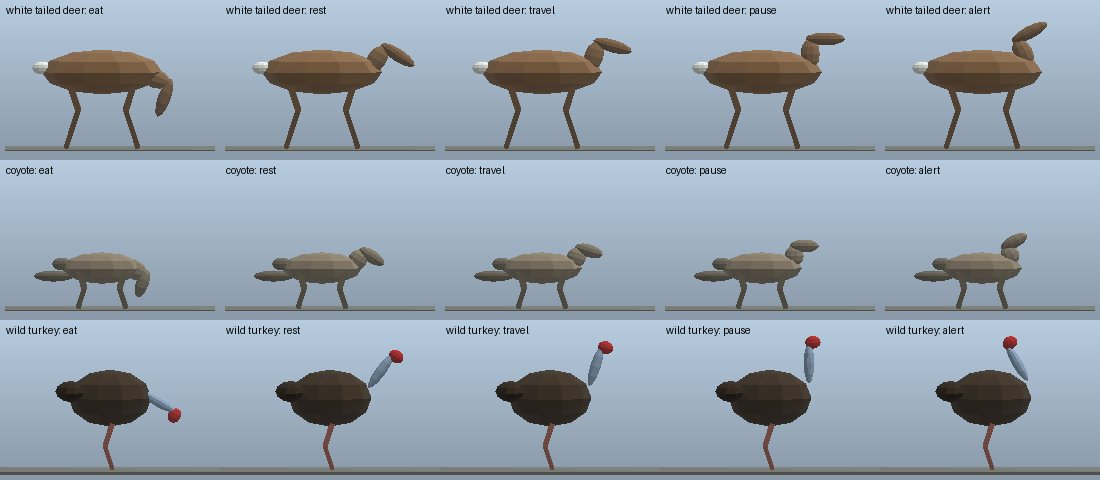
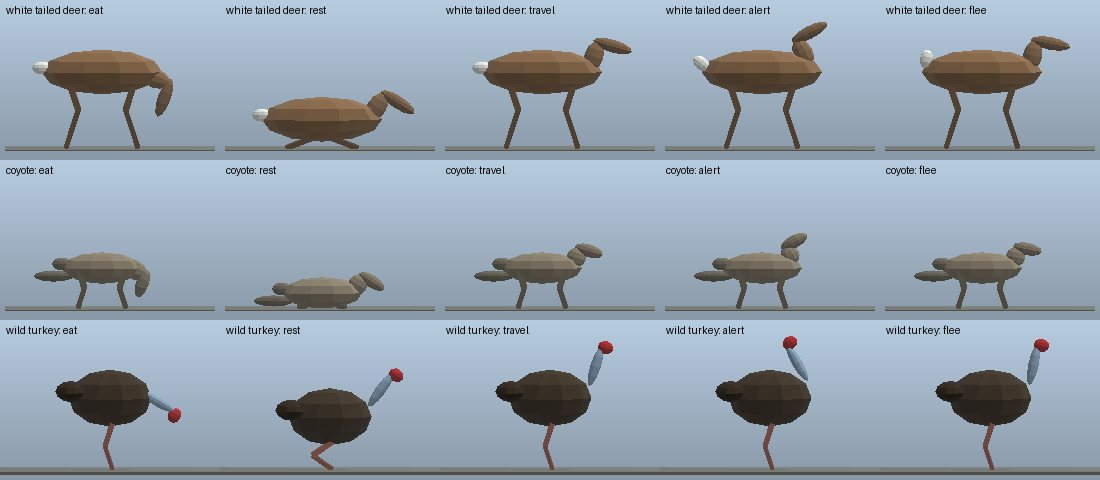
Lying down to rest, and the deer's white flag
TECHNIQUES §29.

Lying: "rest" lowers the trunk by d = 0.62 h (quadrupeds) or 0.4 h
(turkey), eased over 1 s. Its keys join the leg timeline, and resting
feet aim at z = −(h − d), so the two-bone IK folds the legs (knee > 90°)
and the feet stay on the ground. The trunk carries b = −d (+ gait bob).

Flag: the deer's tail is its own node at the rump; it lifts by a
fraction of a 100° flag angle: 1.0 flee, 0.4 alert, eased over 0.3 s.

Head (§28), flag and drop share pose_track(times, states, full, table,
ease).

Viewer check: 55 animated nodes, unique names, no errors. poses.jpg
adds rest and flee. Scenes 10.73 / 9.04 / 9.8 MB. 50 tests pass.

Claude-Session: https://claude.ai/code/session_01W8T2zvuXVw2eBrrYHA5yqx

diff --git a/plandscape/fauna/bodies.py b/plandscape/fauna/bodies.py
@@ -28,7 +28,8 @@ def ellipsoid(c, r, rgb, nu=10, nv=6):
 
 def rig(key, rgb, scale=1.0):
     """Body split for gait animation: dict(torso=Mesh, legs=[dict(thigh, shank, hip, knee, l1, l2)],
-    neck=dict(mesh, pivot, graze) or None, hip=hip height h (m), kind='quad'|'biped'|'hop'|'none'). Legs are ordered LF, RF, LH, RH (bipeds L, R).
+    neck=dict(mesh, pivot, graze) or None, tail=dict(mesh, pivot, flag) or None, hip=hip height h (m),
+    kind='quad'|'biped'|'hop'|'none', lie=trunk drop when lying, as a fraction of h). Legs are ordered LF, RF, LH, RH (bipeds L, R).
     Thigh and shank hang straight down from their own origins (hip, knee); together they are h / 0.95 long, so
     the rest pose (gait.rest_pose) is slightly flexed. knee = +1 bends forward (stifle, human knee), −1 backward
     (a deer's carpus, a bird's intertarsal joint)."""
@@ -36,6 +37,7 @@ def rig(key, rgb, scale=1.0):
     rgb = np.asarray(rgb)
     parts, legs, hip, kind = [], [], 0.0, "none"
     neck = None  # dict(mesh relative to the pivot, pivot xyz, graze=head-down pitch in radians)
+    tail = None  # dict(mesh relative to the pivot, pivot xyz, flag=raise angle in radians)
 
     def leg(x, y, h, w, col, knee):
         L = h * REACH
@@ -55,8 +57,12 @@ def rig(key, rgb, scale=1.0):
         for x, knee in ((L * 0.6, -1.0), (-L * 0.6, 1.0)):  # fore (carpus bends back), then hind (stifle forward)
             for y in (0.1, -0.1):                            # left (+y), then right
                 leg(x, y, h, 0.06, rgb * 0.8, knee)
-        tail = (0.95, 0.95, 0.92) if key == "white_tailed_deer" else rgb * 0.8
-        parts.append(ellipsoid((-L * 1.0, 0, h + 0.05), (0.12, 0.05, 0.08), tail))
+        if key == "white_tailed_deer":  # the white flag: raised when fleeing (§29)
+            tp = np.array([-L * 0.9, 0, h + 0.08])
+            tail = dict(mesh=ellipsoid(np.array([-L * 1.0, 0, h + 0.05]) - tp, (0.12, 0.05, 0.08), (0.95, 0.95, 0.92)),
+                        pivot=tuple(tp), flag=np.radians(100))
+        else:
+            parts.append(ellipsoid((-L * 1.0, 0, h + 0.05), (0.12, 0.05, 0.08), rgb * 0.8))
         if key == "coyote":
             parts.append(ellipsoid((-L * 1.2, 0, h - 0.1), (0.25, 0.06, 0.07), rgb * 0.75))
         hip, kind = h, "quad"
@@ -91,16 +97,18 @@ def rig(key, rgb, scale=1.0):
         hip, kind = 0.9, "biped"
     torso = Mesh.merge(parts)
     torso.positions *= scale
-    if neck is not None:
-        neck["mesh"].positions *= scale
-        neck["pivot"] = tuple(c * scale for c in neck["pivot"])
+    for part in (neck, tail):
+        if part is not None:
+            part["mesh"].positions *= scale
+            part["pivot"] = tuple(c * scale for c in part["pivot"])
     for lg in legs:
         lg["thigh"].positions *= scale
         lg["shank"].positions *= scale
         lg["hip"] = tuple(c * scale for c in lg["hip"])
         lg["l1"] *= scale
         lg["l2"] *= scale
-    return dict(torso=torso, legs=legs, neck=neck, hip=hip * scale, kind=kind)
+    drop = {"quad": 0.62, "biped": 0.4}.get(kind, 0.0) if key != "human" else 0.0
+    return dict(torso=torso, legs=legs, neck=neck, tail=tail, hip=hip * scale, kind=kind, lie=drop)
 
 
 def _pitch(P, th):
@@ -126,7 +134,8 @@ def body(key, rgb, scale=1.0):
     """The rig merged into one static mesh in its rest pose (previews, the asset library)."""
     r = rig(key, rgb, scale)
     parts = [r["torso"]] + posed_legs(r)
-    if r["neck"] is not None:
-        n = r["neck"]
-        parts.append(Mesh(n["mesh"].positions + np.asarray(n["pivot"], np.float32), n["mesh"].colors, n["mesh"].indices))
+    for n in (r["neck"], r["tail"]):
+        if n is not None:
+            parts.append(Mesh(n["mesh"].positions + np.asarray(n["pivot"], np.float32), n["mesh"].colors,
+                              n["mesh"].indices))
     return Mesh.merge(parts)

diff --git a/plandscape/fauna/gait.py b/plandscape/fauna/gait.py
@@ -88,6 +88,10 @@ BOB = {"walk": 0.015, "trot": 0.03, "gallop": 0.05}  # trunk bob amplitude, frac
 HEAD = {"eat": 1.0, "drink": 1.0, "dig": 0.9, "scratch": 0.8, "groom": 0.4, "rest": 0.3, "idle": 0.1,
         "pause": 0.0, "travel": 0.15, "flee": 0.1, "alert": -0.25, "freeze": -0.2}
 HEAD_EASE = 0.4  # s to move the head to a new pose
+TAIL = {"flee": 1.0, "alert": 0.4}  # deer tail raise, fraction of the flag angle (§29)
+TAIL_EASE = 0.3
+LIE = {"rest": 1.0}  # trunk drop, fraction of the species' lying drop (§29)
+LIE_EASE = 1.0
 REACH = 1 / 0.95  # leg length / hip height
 
 
@@ -115,29 +119,33 @@ def rest_pose(h, l1, l2, knee):
     return two_bone(0.0, -h, l1, l2, knee)
 
 
-def leg_ik(times, xy, h, knees, legs="quad", seg=None, bob=None):
+def leg_ik(times, xy, h, knees, legs="quad", seg=None, bob=None, drop=None):
     """(key times (K,), angles (K, n_legs, 2) hip/knee radians, gait names) with feet planted in stance.
     With `bob` a list, it is filled with the trunk lift b(t) = A cos 2φ at each key; feet aim at z = −(h + b)
-    so they stay on the ground while the body rises and falls."""
+    so they stay on the ground while the body rises and falls. `drop` = (key times, metres) lowers the trunk
+    (lying down, §29): its keys join the timeline, and resting feet aim at z = −(h − drop), folding the legs."""
     v, phi = phase_track(times, xy, h)
     tk = key_times(times, v, phi)
+    if drop is not None:
+        tk = np.unique(np.r_[tk, np.clip(drop[0], times[0], times[-1])])
     vk = _interval_speed(times, v, tk)
     pk = np.interp(tk, times, phi)
+    dk = np.interp(tk, drop[0], drop[1]) if drop is not None else np.zeros(len(tk))
     table = QUAD if legs == "quad" else BIPED
     L = h * REACH
     l1, l2 = seg if seg is not None else (L / 2, L / 2)
     names = [gait_name(x) for x in froude(vk, h)]
     n = len(table["walk"][0])
     out = np.zeros((len(tk), n, 2))
+    b = -dk.copy()
     for j in range(n):
-        out[:, j] = rest_pose(h, l1, l2, knees[j])
-    b = np.zeros(len(tk))
+        out[:, j] = np.stack(two_bone(np.zeros(len(tk)), -(h - dk), l1, l2, knees[j]), -1)
     for i, (nm, p, vv) in enumerate(zip(names, pk, vk)):
         if vv <= 0:
             continue
         offs, beta = table[nm]
         S = float(stride(vv, h)) * beta
-        b[i] = BOB[nm] * h * np.cos(2 * p)
+        b[i] = BOB[nm] * h * np.cos(2 * p) - dk[i]
         for j, o in enumerate(offs):
             x, z = foot_path(p / (2 * np.pi) - o, beta, S, h, LIFT[nm])
             out[i, j] = two_bone(x, z - b[i], l1, l2, knees[j])
@@ -147,17 +155,22 @@ def leg_ik(times, xy, h, knees, legs="quad", seg=None, bob=None):
 
 
 def head_track(times, states, graze):
-    """Head pitch keys from behaviour states: each change eases over HEAD_EASE seconds.
-    Returns (times, pitch radians, + = head down)."""
+    """Head pitch keys (+ = down) from behaviour states, as fractions of the grazing angle."""
+    return pose_track(times, states, graze, HEAD, HEAD_EASE)
+
+
+def pose_track(times, states, full, table, ease):
+    """Pose keys from behaviour states: `table` maps state → fraction of `full` (an angle or a distance);
+    each change eases over `ease` seconds. Returns (times, values)."""
     t = np.asarray(times, float)
-    target = np.array([HEAD.get(s, 0.0) * graze for s in states])
+    target = np.array([table.get(s, 0.0) * full for s in states])
     tk, val = [t[0]], [target[0]]
     for i in range(1, len(t)):
         if target[i] != target[i - 1]:
             if t[i] > tk[-1] + 1e-6:
                 tk.append(t[i])
                 val.append(target[i - 1])
-            tk.append(t[i] + HEAD_EASE)
+            tk.append(t[i] + ease)
             val.append(target[i])
     if t[-1] > tk[-1]:
         tk.append(t[-1])

diff --git a/plandscape/scene/compose.py b/plandscape/scene/compose.py
@@ -411,11 +411,13 @@ def compose(plan: ScenePlan, out_dir: str, sim_seconds=180.0, log=print, store: 
             nm = f"{a.spec.key}_{len(rigs)}"
             rigs[look] = (rg, g.mesh(rg["torso"], nm + "_torso", m_fauna),
                           g.mesh(rg["neck"]["mesh"], nm + "_head", m_fauna) if rg["neck"] else None,
+                          g.mesh(rg["tail"]["mesh"], nm + "_tail", m_fauna) if rg["tail"] else None,
                           [(g.mesh(lg["thigh"], f"{nm}_thigh{i}", m_fauna), g.mesh(lg["shank"], f"{nm}_shank{i}", m_fauna))
                            for i, lg in enumerate(rg["legs"])])
-        rg, torso_mesh, head_mesh, leg_meshes = rigs[look]
+        rg, torso_mesh, head_mesh, tail_mesh, leg_meshes = rigs[look]
         torso = g.node("torso", torso_mesh)
         neck = g.node("neck", head_mesh, translation=rg["neck"]["pivot"]) if head_mesh is not None else None
+        tail = g.node("tail", tail_mesh, translation=rg["tail"]["pivot"]) if tail_mesh is not None else None
         legs, shanks = [], []
         for i, ((tm_, sm_), lg) in enumerate(zip(leg_meshes, rg["legs"])):
             r1, r2 = gait.rest_pose(rg["hip"], lg["l1"], lg["l2"], lg["knee"])
@@ -425,7 +427,7 @@ def compose(plan: ScenePlan, out_dir: str, sim_seconds=180.0, log=print, store: 
             g.nodes[th]["rotation"] = pitch_quat(r1).tolist()
             legs.append(th)
             shanks.append(sh)
-        trunk = g.node("body", children=[torso] + ([neck] if neck is not None else []) + legs)
+        trunk = g.node("body", children=[torso] + [n_ for n_ in (neck, tail) if n_ is not None] + legs)
         node = g.node(f"{a.spec.key}_{a.id}", children=[trunk])
         akids.append(node)
         L = a.log[::4]
@@ -437,8 +439,11 @@ def compose(plan: ScenePlan, out_dir: str, sim_seconds=180.0, log=print, store: 
             if legs:  # hip and knee by two-bone IK on planted-foot paths (§26), trunk bob (§28)
                 lg0 = rg["legs"][0]
                 bob = []
+                states = [l[5] for l in a.log]
+                drop = gait.pose_track(t_, states, rg["lie"] * rg["hip"], gait.LIE, gait.LIE_EASE) if rg["lie"] else None
                 tk, ang, _ = gait.leg_ik(t_, xy, rg["hip"], [lg["knee"] for lg in rg["legs"]],
-                                         "quad" if rg["kind"] == "quad" else "biped", seg=(lg0["l1"], lg0["l2"]), bob=bob)
+                                         "quad" if rg["kind"] == "quad" else "biped", seg=(lg0["l1"], lg0["l2"]), bob=bob,
+                                         drop=drop)
                 for i, (ln, sn) in enumerate(zip(legs, shanks)):
                     extra.append((ln, "rotation", tk, pitch_quat(ang[:, i, 0])))
                     extra.append((sn, "rotation", tk, pitch_quat(ang[:, i, 1])))
@@ -447,6 +452,9 @@ def compose(plan: ScenePlan, out_dir: str, sim_seconds=180.0, log=print, store: 
             if neck is not None:  # head down to graze, up when alert (§28)
                 hk, hv = gait.head_track(t_, [l[5] for l in a.log], rg["neck"]["graze"])
                 extra.append((neck, "rotation", hk, pitch_quat(-hv)))
+            if tail is not None:  # the white flag goes up when a deer flees (§29)
+                fk, fv = gait.pose_track(t_, [l[5] for l in a.log], rg["tail"]["flag"], gait.TAIL, gait.TAIL_EASE)
+                extra.append((tail, "rotation", fk, pitch_quat(-fv)))
             elif rg["kind"] == "hop":
                 tk, zz = gait.hop_heights(t_, xy, rg["hip"], 0.6 * rg["hip"])
                 extra.append((torso, "translation", tk, _to_gltf(np.c_[0 * zz, 0 * zz, zz])))

diff --git a/tests/test_core.py b/tests/test_core.py
@@ -63,7 +63,7 @@ class Gaits(unittest.TestCase):
         for k in ("white_tailed_deer", "wild_turkey", "human", "gray_squirrel"):
             r = rig(k, (0.5, 0.4, 0.3))
             b = body(k, (0.5, 0.4, 0.3))
-            neck = r["neck"]["mesh"].n_tris if r["neck"] else 0
+            neck = sum(r[k]["mesh"].n_tris for k in ("neck", "tail") if r[k])
             self.assertEqual(b.n_tris, r["torso"].n_tris + neck + sum(lg["thigh"].n_tris + lg["shank"].n_tris
                                                                       for lg in r["legs"]))
             for lg in r["legs"]:  # rest pose puts the foot on the ground, slightly flexed
@@ -110,6 +110,33 @@ class Behaviour(unittest.TestCase):
         fz = -0.5 * np.cos(th1) - 0.5 * np.cos(th1 + th2) + bob  # foot height above the ground (hip at h + b)
         self.assertGreater(np.isclose(fz, -0.95, atol=1e-4).mean(), 0.4)  # in stance about half the time
         self.assertTrue(np.all(fz >= -0.95 - 1e-4))  # never below the ground
+
+
+class LyingAndFlag(unittest.TestCase):
+    def test_rest_folds_legs_and_flee_raises_the_flag(self):
+        from plandscape.fauna import gait
+        from plandscape.fauna.bodies import rig
+        r = rig("white_tailed_deer", (0.5, 0.4, 0.3))
+        h = r["hip"]
+        t = np.arange(0, 20, 0.25)
+        states = ["idle"] * 20 + ["rest"] * 40 + ["flee"] * 20
+        x = np.where(t >= 15, (t - 15) * 8.0, 0.0)  # lies down, then bolts
+        drop = gait.pose_track(t, states, r["lie"] * h, gait.LIE, gait.LIE_EASE)
+        bob = []
+        lg = r["legs"][2]
+        tk, ang, _ = gait.leg_ik(t, np.c_[x, 0 * x], h, [l_["knee"] for l_ in r["legs"]], "quad",
+                                 seg=(lg["l1"], lg["l2"]), bob=bob, drop=drop)
+        bob = np.asarray(bob)
+        lying = (tk > 5.99) & (tk < 14.9)  # fully down from 6 s (5 s + 1 s ease) until it bolts at 15 s
+        self.assertGreater(lying.sum(), 0)
+        self.assertTrue(np.allclose(bob[lying], -r["lie"] * h))  # trunk lowered 62 % of hip height
+        th1, th2 = ang[lying, 2, 0], ang[lying, 2, 1]
+        foot = -lg["l1"] * np.cos(th1) - lg["l2"] * np.cos(th1 + th2) + bob[lying]
+        np.testing.assert_allclose(foot, -h, atol=1e-4)  # folded legs still reach the ground
+        self.assertGreater(np.degrees(np.abs(th2)).min(), 90)  # sharply folded
+        fk, fv = gait.pose_track(t, states, r["tail"]["flag"], gait.TAIL, gait.TAIL_EASE)
+        self.assertAlmostEqual(float(fv[-1]), r["tail"]["flag"])  # fleeing: flag up
+        self.assertAlmostEqual(float(np.interp(10, fk, fv)), 0.0)
 
 
 class Refine(unittest.TestCase):

diff --git a/scripts/gallery.py b/scripts/gallery.py
@@ -150,25 +150,35 @@ def gait_sheet(path, key="white_tailed_deer"):
 
 
 def pose_sheet(path):
-    """Head pose by behaviour state (TECHNIQUES §28) for deer, coyote and turkey, from the GLB's rig."""
+    """Poses by behaviour state (TECHNIQUES §28–29): head pitch, the deer's flag, lying down to rest."""
     import numpy as np
     from plandscape.fauna import gait
     from plandscape.fauna.bodies import _pitch, posed_legs, rig
     from plandscape.mesh import Mesh, box
     from plandscape.render import render
-    states = ("eat", "rest", "travel", "pause", "alert")
+    states = ("eat", "rest", "travel", "alert", "flee")
     rows = []
     for key, rgb in (("white_tailed_deer", (0.55, 0.42, 0.30)), ("coyote", (0.55, 0.5, 0.42)),
                      ("wild_turkey", (0.25, 0.2, 0.15))):
         rg = rig(key, rgb)
-        n = rg["neck"]
+        h = rg["hip"]
         ground = box((0.1, 0, -0.01), (2.6, 0.6, 0.02), (0.45, 0.45, 0.42))
         frames = []
         for st in states:
-            d = gait.HEAD[st] * n["graze"]
-            head = Mesh(_pitch(n["mesh"].positions, -d) + np.asarray(n["pivot"], np.float32), n["mesh"].colors,
-                        n["mesh"].indices)
-            img = render([ground, rg["torso"], head] + posed_legs(rg), None, size=(220, 160), azimuth=0, elevation=4,
+            drop = gait.LIE.get(st, 0.0) * rg["lie"] * h
+            lift = np.array([0, 0, -drop], np.float32)
+
+            def part(p_, ang):
+                return Mesh(_pitch(p_["mesh"].positions, -ang) + np.asarray(p_["pivot"], np.float32) + lift,
+                            p_["mesh"].colors, p_["mesh"].indices)
+            parts = [Mesh(rg["torso"].positions + lift, rg["torso"].colors, rg["torso"].indices)]
+            if rg["neck"]:
+                parts.append(part(rg["neck"], gait.HEAD.get(st, 0.0) * rg["neck"]["graze"]))
+            if rg["tail"]:
+                parts.append(part(rg["tail"], gait.TAIL.get(st, 0.0) * rg["tail"]["flag"]))
+            ang = [gait.two_bone(0.0, -(h - drop), lg["l1"], lg["l2"], lg["knee"]) for lg in rg["legs"]]
+            parts += [Mesh(m.positions + lift, m.colors, m.indices) for m in posed_legs(rg, ang)]
+            img = render([ground] + parts, None, size=(220, 160), azimuth=0, elevation=4,
                          fit=((-1.2, -0.5, -0.05), (1.4, 0.5, 1.75)) if key != "wild_turkey" else
                          ((-0.6, -0.3, -0.03), (0.6, 0.3, 1.1)), keep_first=99)
             im = Image.fromarray(img)

diff --git a/docs/TECHNIQUES.md b/docs/TECHNIQUES.md
@@ -608,3 +608,18 @@ follows the agent's logged behaviour state, as a fraction of the species' grazin
 Each change eases over 0.4 s: keys at the change, with the old pose, and 0.4 s later, with the new one. Overlapping eases
 collapse to the later change. A grazing deer now drops its head, and an alarmed one lifts it, in step with the event log in
 the viewer.
+
+## 29. Lying down to rest, and the deer's flag
+`plandscape/fauna/gait.py: pose_track, LIE, TAIL, leg_ik(drop=)`; `bodies.py: rig (tail, lie)`; `scene/compose.py`
+
+**Lying.** "Rest" lowers the trunk by $d = 0.62\,h$ for quadrupeds and $0.4\,h$ for the turkey; people stand. The drop
+eases over 1 s, and its keys join the leg timeline. Resting feet aim at $z = -(h - d)$, so the same two-bone IK (§26) folds
+the legs under the body, with the knee bent past 90°. The feet stay on the ground, and the trunk node carries $b = -d$ (plus
+any gait bob).
+
+**Flag.** A white-tailed deer raises its white tail when it bolts, the signal the species is named for. The tail is
+its own node pivoting at the rump. It lifts by a fraction of a 100° flag angle: 1.0 to flee, 0.4 when alert, 0 otherwise.
+The pitch is $-\theta$ about the lateral axis, because the tail lies behind its pivot. It eases over 0.3 s.
+
+Head pitch (§28), the flag and the lying drop all come from one helper, `pose_track(times, states, full, table, ease)`:
+a state→fraction table, keys at each change and one `ease` later, and overlapping eases collapsed.

diff --git a/CHANGELOG.md b/CHANGELOG.md
@@ -3,6 +3,7 @@
 ## Unreleased
 
 **Added**
+- Lying down and the deer's flag (TECHNIQUES §29). Resting animals lower the trunk (0.62 h for quadrupeds, 0.4 h for turkeys) and fold their legs by IK with the feet kept on the ground. Deer raise the white tail when they flee and half-raise it when alert. Gallery `poses.jpg` adds rest and flee.
 - Trunk bob and head pose by behaviour (TECHNIQUES §28). The trunk rises and falls b = A h cos 2φ, and the IK keeps the feet planted. Deer, coyotes and turkeys lower their heads to eat or drink and raise them when alert, easing over 0.4 s at each state change. Gallery adds `poses.jpg`.
 - `--llm`: an optional Claude pass fills the scene plan from free-form prompts (TECHNIQUES §27). A validator keeps only values the generators can honour; seed, size and detail always stay the keyword planner's, and every rejection is noted in the plan. The client is stdlib-only (`urllib`), with `ANTHROPIC_API_KEY` and an optional `PLANDSCAPE_MODEL`. Offline, or on any failure, the keyword plan is used.
 - Knees and planted feet (TECHNIQUES §26). Legs are thigh plus shank. Feet follow stance and swing paths (S = λβ on the ground, a smoothstep arc lifted 0.12–0.3 h in swing), and hips and knees come from two-bone IK. Knees bend their anatomical way: fore carpus and bird intertarsal joints backward, stifle and human knee forward. The gallery's `gaits.jpg` now shows planted feet.

diff --git a/HANDOFF.md b/HANDOFF.md
@@ -55,7 +55,7 @@ You are continuing **stick-town**, a Python package (`plandscape`) that turns a 
 3. **Grow the asset library.** All species × 4 seasons × ≥4 variants at `low` and `med`; all building kinds × 4; behaviour clips from ≥20 scenes. Ask the owner where large binaries should live before going past ~100 MB.
 4. **Animals.** Gaits by speed are done (§25). Next:
    - knees and planted feet are done (§26); feet still slide where the stance is out of reach (gallop);
-   - torso bob and head pose by state are done (§28); next: lying down for rest, tail flick (deer flag when fleeing);
+   - torso bob, head pose (§28), lying down and the deer's flag (§29) are done; next: turning (heading changes are instant), ear flicks;
    - multi-hour runs;
    - more species: heron, cardinal, box turtle, raccoon, red-tailed hawk, fire-ant mounds.
 5. **Species data is verified** (§24, `catalog/species_sources.json`). New species need the same: URL plus quote for height, d.b.h., leaf length and habit before `verified=True`. Silvics PDFs: research.fs.usda.gov/download/treesearch/1547.pdf (conifers) and 1548.pdf (hardwoods); the old srs.fs.usda.gov host fails TLS.

diff --git a/docs/gallery/README.md b/docs/gallery/README.md
@@ -29,12 +29,12 @@ The deer rig through one stride at 1, 3 and 8 m/s. The Froude number picks walk,
 λ = 2.3 h Fr^0.3. Feet follow stance and swing paths, and hips and knees come from two-bone IK (§26), the same
 angles keyed into the GLB by stride phase. The grey line is the ground.
 
-## Head pose by behaviour (§28)
+## Poses by behaviour (§28–29)
 
 ![poses](poses.jpg)
 
-The head pitches by the agent's logged state: down to eat or drink, raised when alert. The same keys drive the GLB's
-neck nodes, easing over 0.4 s at each change.
+The head pitches by the agent's logged state: down to eat or drink, raised when alert. Resting animals lie down,
+with legs folded by the same IK, and a fleeing deer raises its white flag. The same keys drive the GLB's nodes.
 
 ## Terrain: droplet erosion (§14)
 
